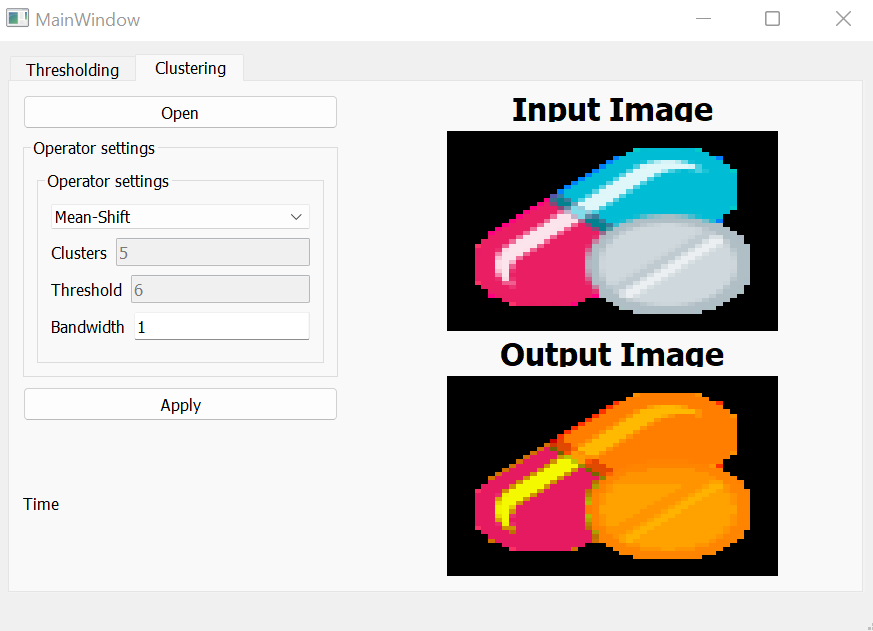
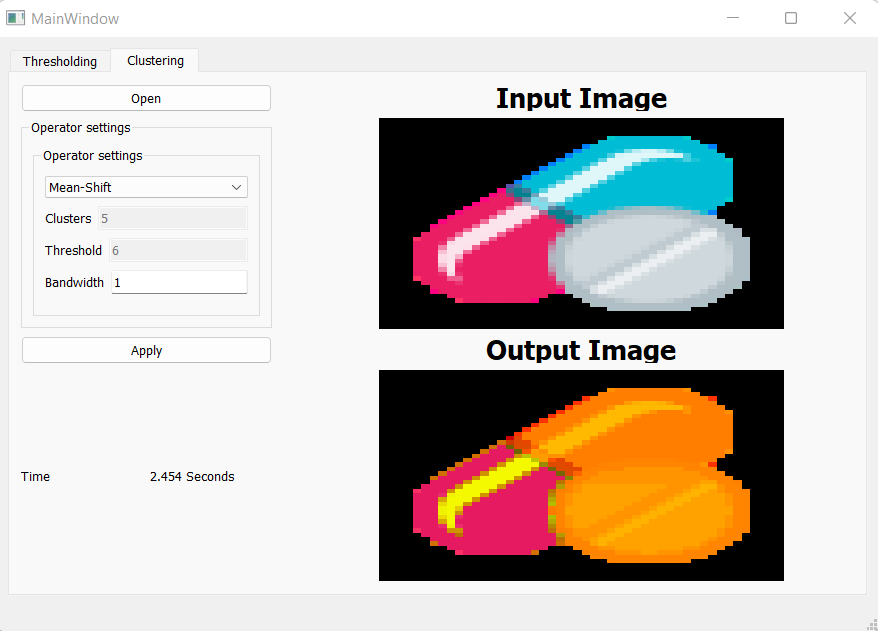
solve time for clustring

diff --git a/app.py b/app.py
@@ -89,7 +89,7 @@ class MainWindow(QtWidgets.QMainWindow , gui.Ui_MainWindow):
         end = time.time()
         self.clustering_output = cv2.cvtColor(self.clustering_output, cv2.COLOR_BGR2RGB) if RGB else self.clustering_output
         self.display(self.clustering_output,self.widgets[3])
-        self.time_label.setText(str("{:.3f}".format(end-start)) + " Seconds")
+        self.time_label_2.setText(str("{:.3f}".format(end-start)) + " Seconds")
 
     def show_clustering_inputs(self, index):
         if self.comboBox_2.currentText() == "K-Means" or self.comboBox_2.currentText() == "Agglomerative":
